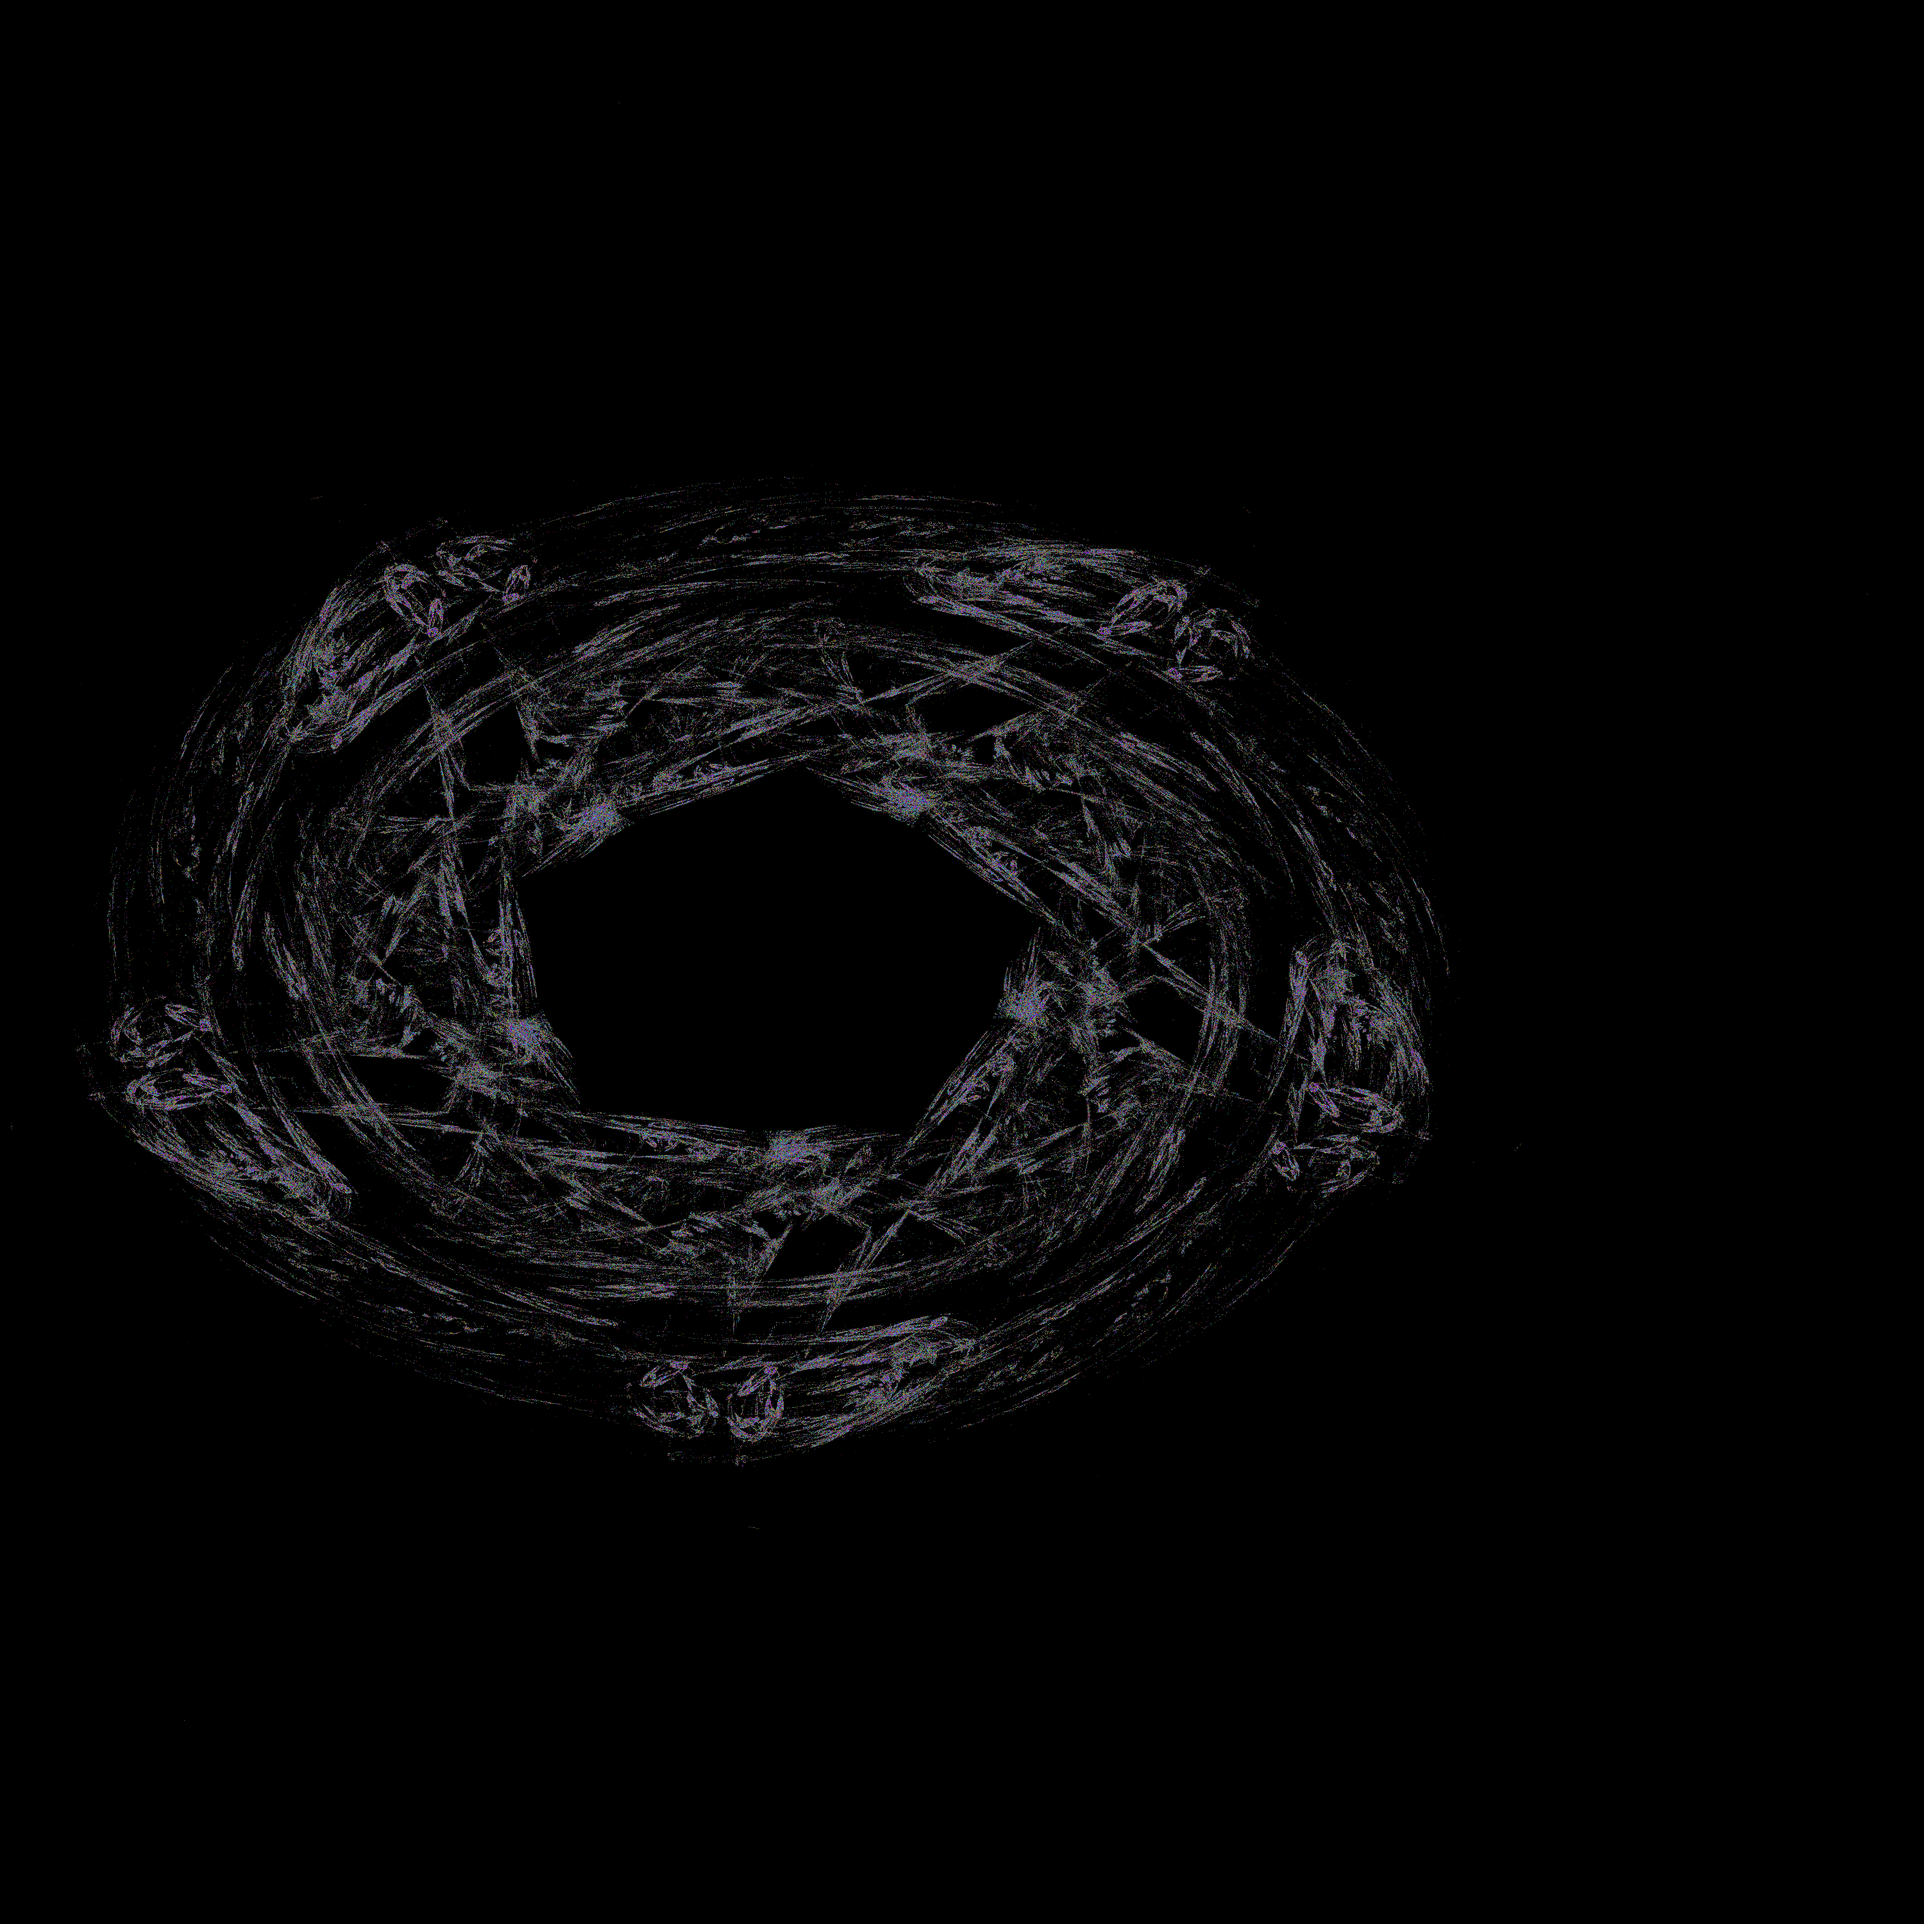
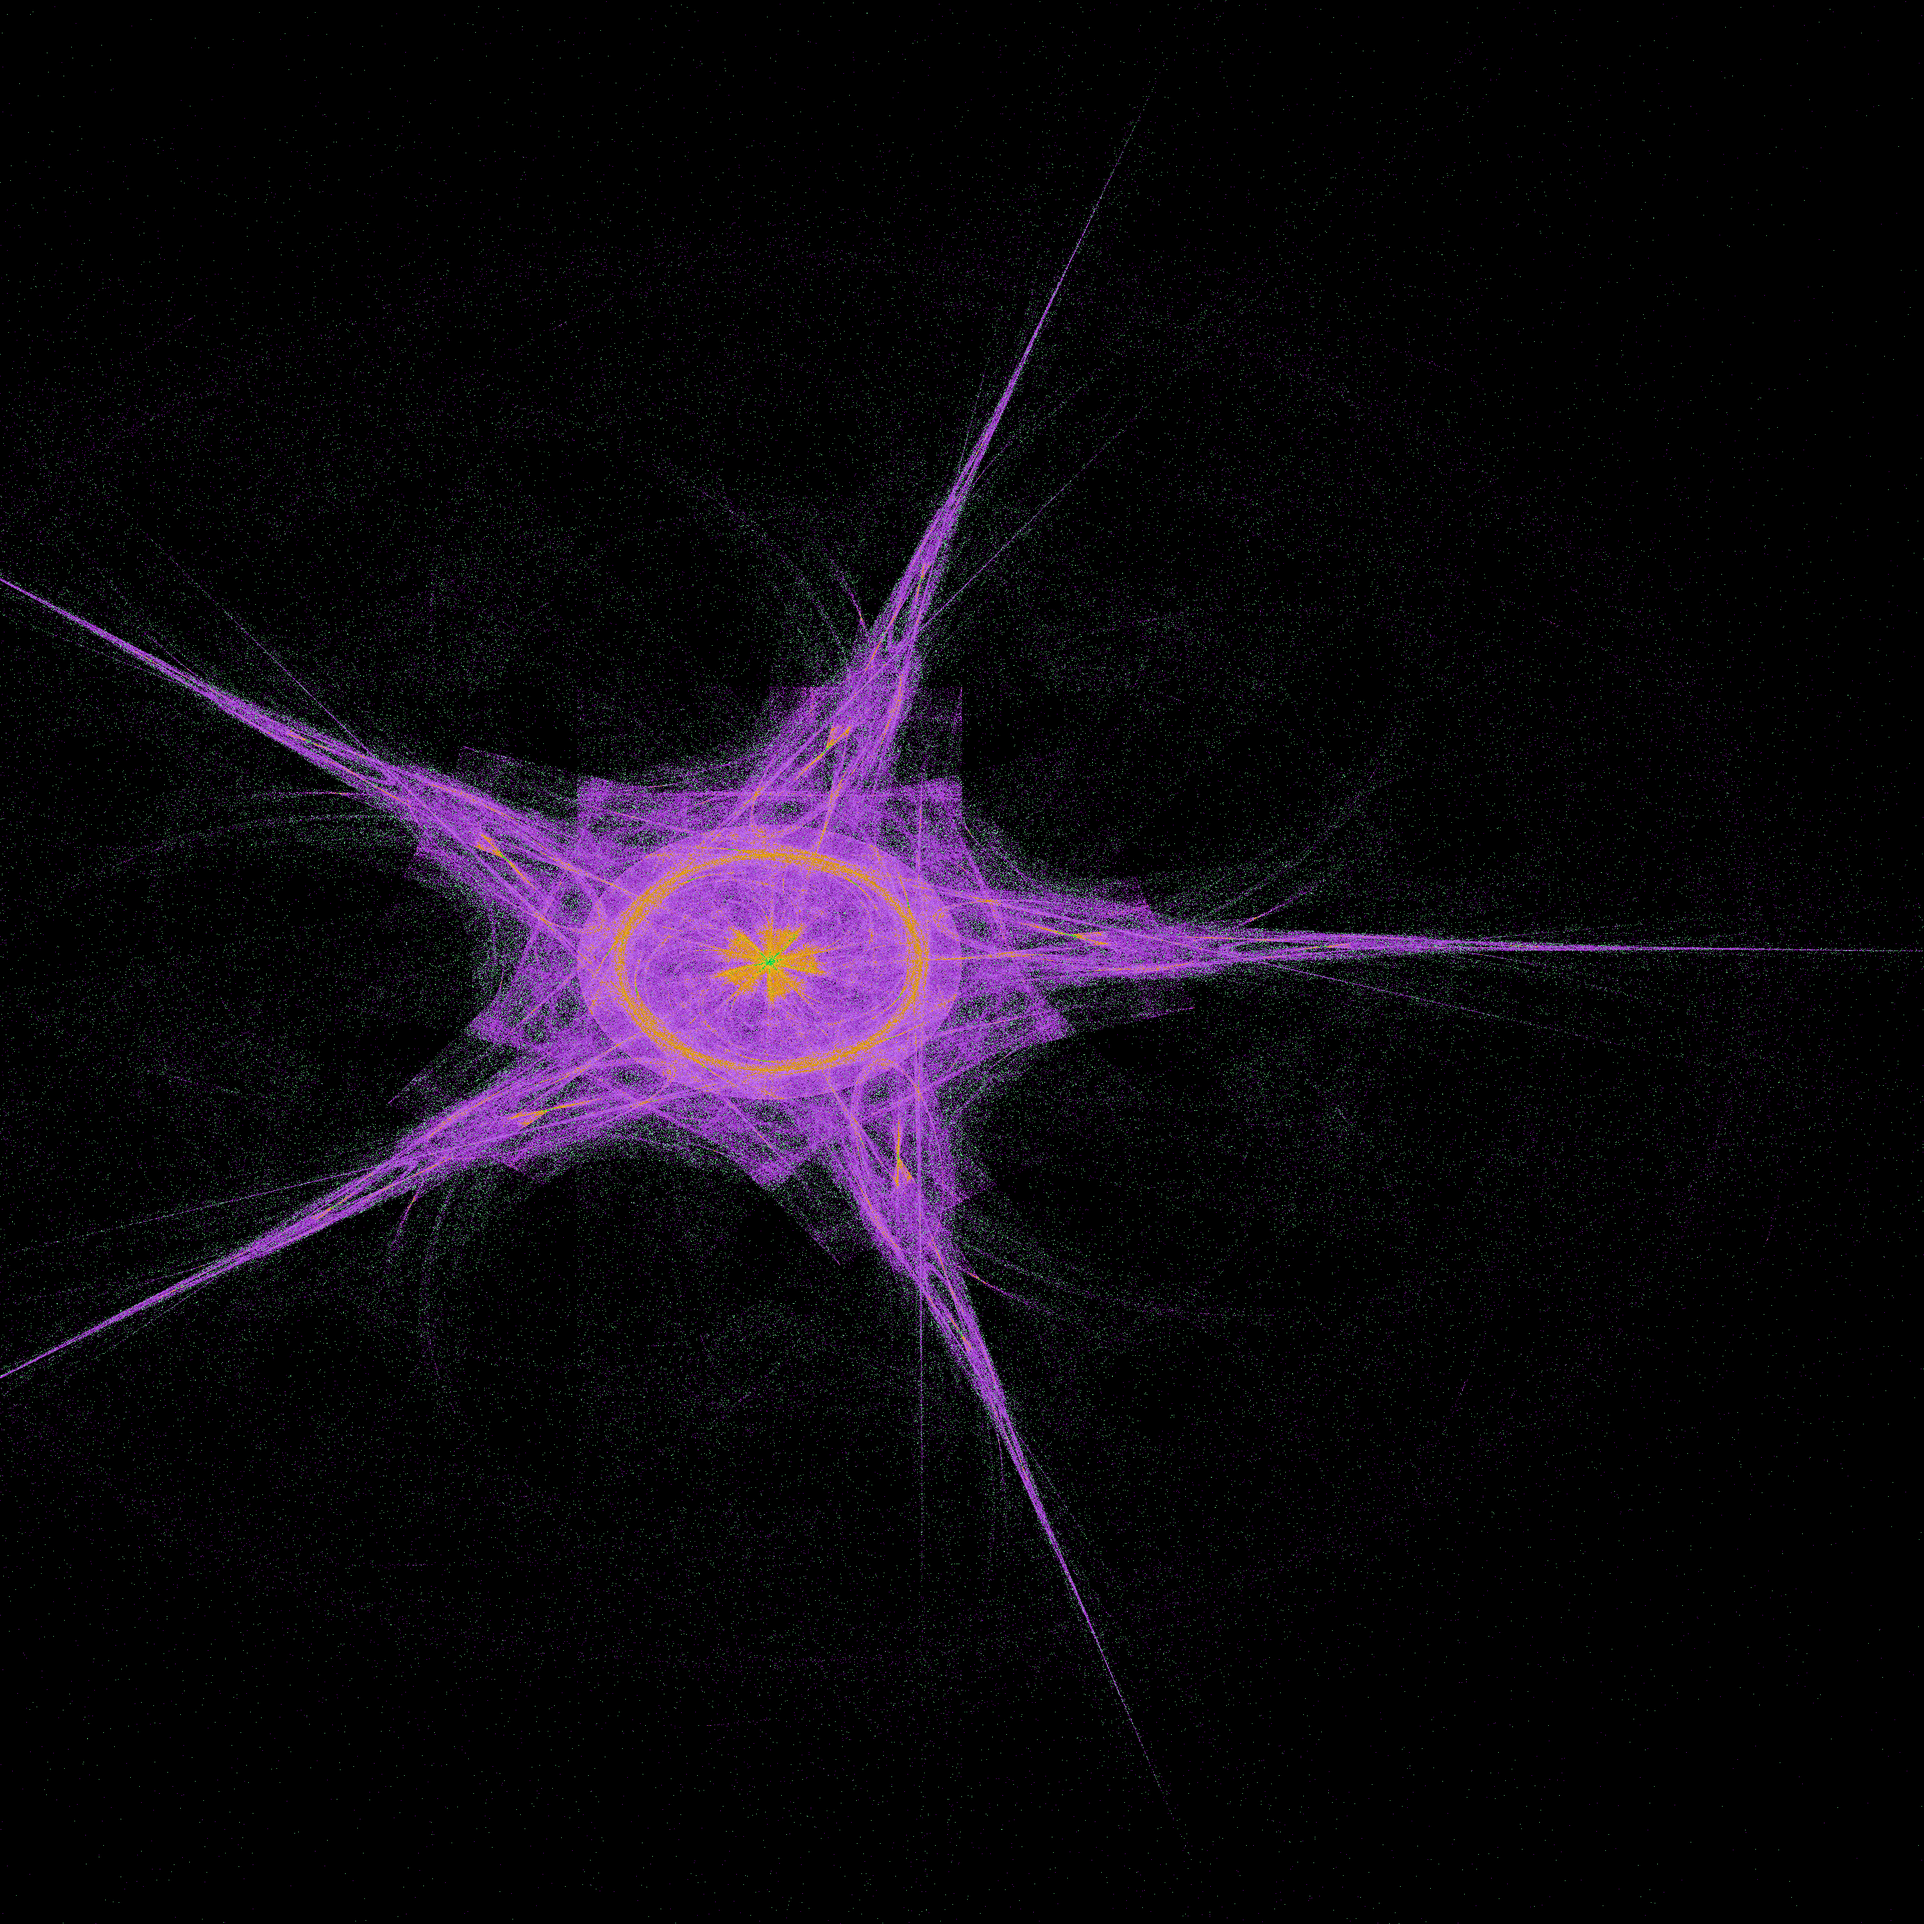
fix color

Changed region(s): [[0.031, 0.186, 0.837, 0.806], [0.527, 0.155, 0.558, 0.186], [0.031, 0.682, 0.062, 0.713]]

diff --git a/src/main/java/edu/project4/renderer/SingleThreadRenderer.java b/src/main/java/edu/project4/renderer/SingleThreadRenderer.java
@@ -15,16 +15,18 @@ public class SingleThreadRenderer implements Renderer {
     public static final int HIGH_BOUND = 256;
     private final Random random;
 
-    public SingleThreadRenderer(long seed) {
-        random = new Random(seed);
-    }
+//    public SingleThreadRenderer(long seed) {
+//        random = new Random(seed);
+//
+//    }
 
     public SingleThreadRenderer() {
         random = ThreadLocalRandom.current();
+
     }
 
     @Override
-    public FractalImage render(FractalImage canvas, Rect world, List<Transformation> variations, int samples, int iterPerSample, long seed) {
+    public FractalImage render(FractalImage canvas, Rect world, List<Transformation> variations, int samples, int iterPerSample) {
 
         for (int num = 0; num < samples; ++num) {
             Point mainPoint = randomPoint(world);
@@ -112,9 +114,12 @@ public class SingleThreadRenderer implements Renderer {
             int updatedG = sourcePixel.g();
             int updatedB = sourcePixel.b();
 
-//            updatedR = (updatedR + direction()) % HIGH_BOUND;
-//            updatedG = (updatedG + direction()) % HIGH_BOUND;
-//            updatedB = (updatedB + direction()) % HIGH_BOUND;
+            if (targetPixel.hitCount() != 0) {
+                updatedR = (updatedR + targetPixel.r()) / 2 + direction() % HIGH_BOUND;
+                updatedG = (updatedG + targetPixel.g()) / 2 + direction() % HIGH_BOUND;
+                updatedB = (updatedB + targetPixel.b()) / 2 + direction() % HIGH_BOUND;
+            }
+
 
             Pixel newPixel = new Pixel(updatedR, updatedG, updatedB, updatedHitCount);
             canvas.data()[y][x] = newPixel;
@@ -124,7 +129,7 @@ public class SingleThreadRenderer implements Renderer {
 
     private int direction() {
         var bool = random.nextBoolean();
-        return bool ? 2 : -2;
+        return bool ? 10 : -2;
     }
 
     private Pixel setPixelColor(Pixel pixel) {

diff --git a/src/main/java/edu/project4/Main.java b/src/main/java/edu/project4/Main.java
@@ -7,28 +7,33 @@ import edu.project4.skelet.ImageUtils;
 import edu.project4.skelet.Rect;
 import edu.project4.transformation.AffineTransformation;
 import edu.project4.transformation.Transformation;
+import edu.project4.transformation.non_linear.DiskTransformation;
 import edu.project4.transformation.non_linear.HeartTransformation;
+import edu.project4.transformation.non_linear.PolarTransformation;
+import edu.project4.transformation.non_linear.SinusoidTransformation;
+import edu.project4.transformation.non_linear.SphereTransformation;
 import java.nio.file.Paths;
 import java.util.List;
 
 public class Main {
     public static void main(String[] args) {
-        long seed = 5;
+
         SingleThreadRenderer renderer = new SingleThreadRenderer();
         Rect world = new Rect(-2, -3.5, 5, 7.0);
         List<Transformation> variations = List.of(
                 new AffineTransformation(),
-//                new PolarTransformation(),
-                new HeartTransformation()
-//                new DiskTransformation(),
+                new PolarTransformation(),
 //                new SinusoidTransformation(),
-//                new SphereTransformation()
+//                new HeartTransformation(),
+                new DiskTransformation(),
+
+                new SphereTransformation()
         );
 
         int samples = 300;
         int iterPerSamples = 4000;
         FractalImage fractalImage = renderer.render(FractalImage.create(3000, 3000),
-                world, variations, samples, iterPerSamples, seed);
+                world, variations, samples, iterPerSamples);
         ImageUtils.save(fractalImage, Paths.get("output.png"), ImageFormat.PNG);
     }
 }

diff --git a/src/main/java/edu/project4/renderer/Renderer.java b/src/main/java/edu/project4/renderer/Renderer.java
@@ -6,7 +6,7 @@ import edu.project4.transformation.Transformation;
 import java.util.List;
 
 public interface Renderer {
-    default FractalImage render(FractalImage canvas, Rect world, List<Transformation> variations, int samples, int iterPerSample, long seed) {
+    default FractalImage render(FractalImage canvas, Rect world, List<Transformation> variations, int samples, int iterPerSample) {
 //        for (int num = 0; num < samples; ++num) {
 //            Point pw = random(world);
 //

diff --git a/src/main/java/edu/project4/transformation/AffineTransformation.java b/src/main/java/edu/project4/transformation/AffineTransformation.java
@@ -10,7 +10,10 @@ public class AffineTransformation implements Transformation {
     private double a, b, c, d, e, f;
     private final Random random = ThreadLocalRandom.current();
 
+
+
     public AffineTransformation() {
+
         do {
             a = generateRandom();
             b = generateRandom();

diff --git a/src/main/java/edu/project4/renderer/AbstractRenderer.java b/src/main/java/edu/project4/renderer/AbstractRenderer.java
@@ -1,0 +1,5 @@
+package edu.project4.renderer;
+
+public class AbstractRenderer implements Renderer {
+
+}
